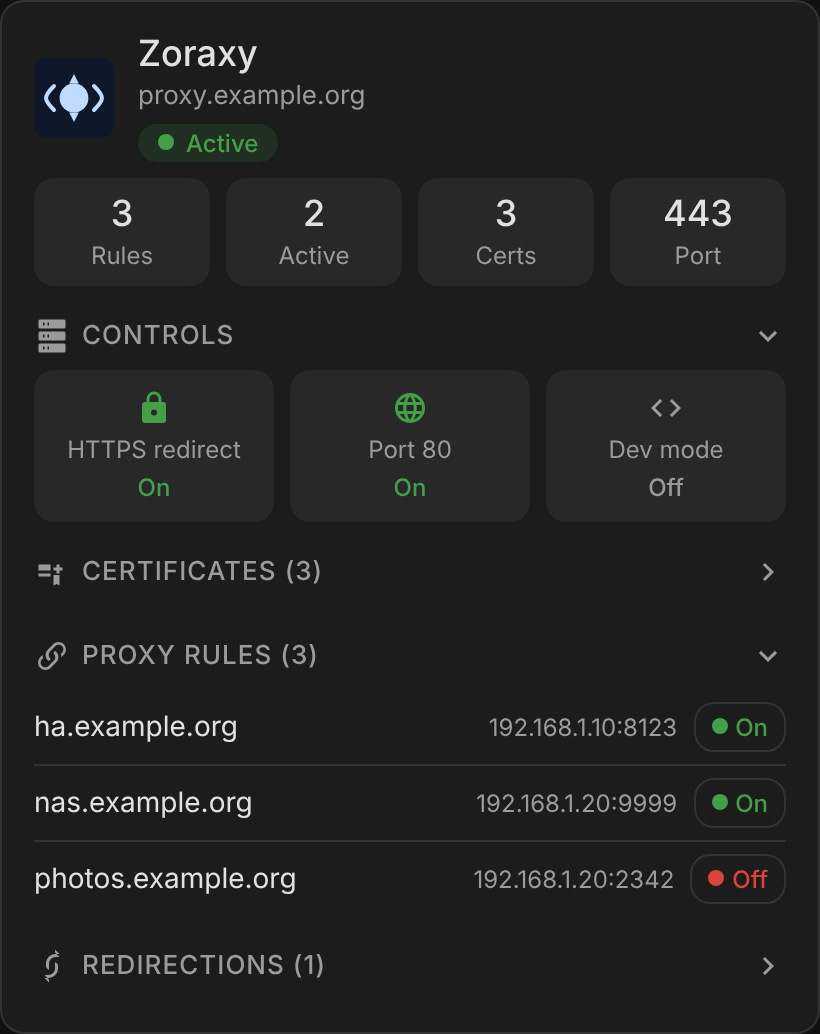
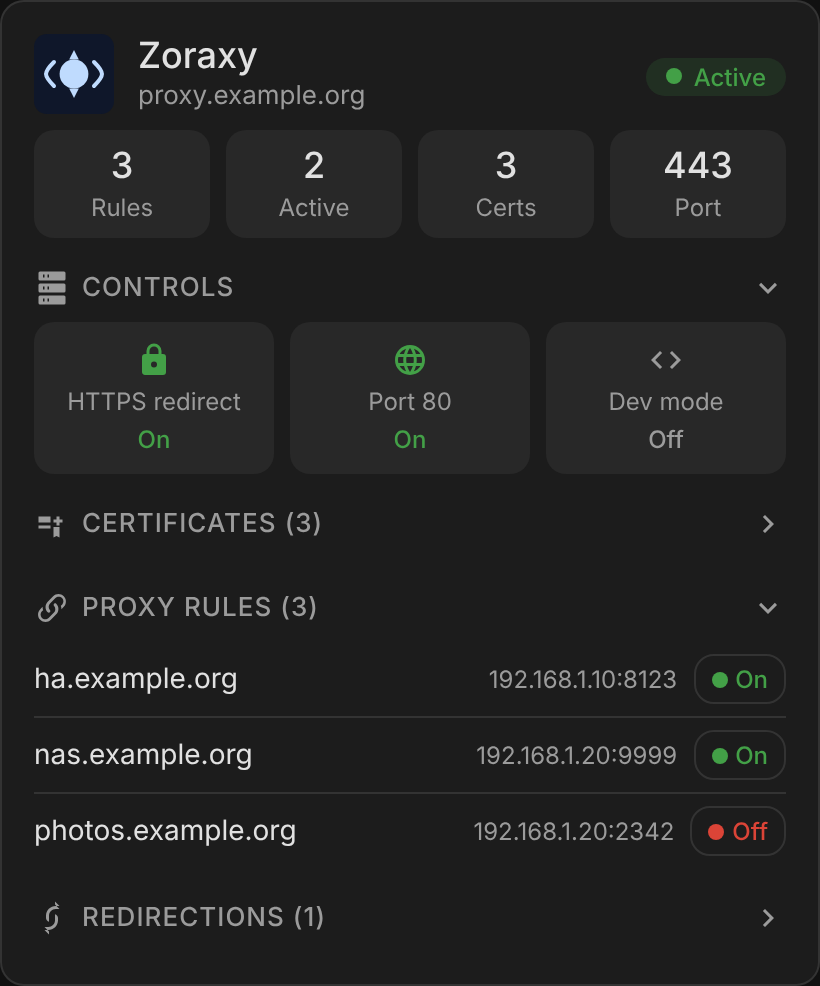
Status pill back on the right of the header (1.3.1) (#3)
Claude-Session: https://claude.ai/code/session_01FyVHJkuQopwM66ytqwsrgB

diff --git a/custom_components/zoraxy/frontend/zoraxy-card.js b/custom_components/zoraxy/frontend/zoraxy-card.js
@@ -1,4 +1,4 @@
-const ZORAXY_CARD_VERSION = '1.3.0';
+const ZORAXY_CARD_VERSION = '1.3.1';
 
 class ZoraxyCard extends HTMLElement {
 
@@ -78,7 +78,6 @@ class ZoraxyCard extends HTMLElement {
             white-space: nowrap; overflow: hidden; text-overflow: ellipsis; display: block; }
     a.name:hover { text-decoration: underline; }
     .sub { font-size: 13px; color: var(--secondary-text-color); white-space: nowrap; overflow: hidden; text-overflow: ellipsis; }
-    .titles .chips { display: flex; flex-wrap: wrap; gap: 4px; margin-top: 6px; }
     .content { padding: 0 16px 16px; display: flex; flex-direction: column; gap: 16px; }
     .metrics { display: grid; grid-template-columns: repeat(auto-fit, minmax(72px, 1fr)); gap: 8px; }
     .tile { display: flex; flex-direction: column; align-items: center; gap: 2px; padding: 8px 10px; border-radius: 10px; min-width: 0;
@@ -387,8 +386,8 @@ class ZoraxyCard extends HTMLElement {
           <div class="titles">
             <a class="name" ${zoraxyUrl ? `href="${zoraxyUrl}" target="_blank" rel="noopener noreferrer"` : ""}>Zoraxy</a>
             <div class="sub">${sub}</div>
-            <div class="chips" id="status">${this._statusChip(proxyRunning)}</div>
           </div>
+          <span id="status">${this._statusChip(proxyRunning)}</span>
         </div>
 
         <div class="content">

diff --git a/CHANGELOG.md b/CHANGELOG.md
@@ -1,5 +1,10 @@
 # Changelog
 
+## 1.3.1
+
+### Changes
+- The status pill is back on the right of the header: moving it under the title in 1.3.0 is undone.
+
 ## 1.3.0
 
 ### Changes
